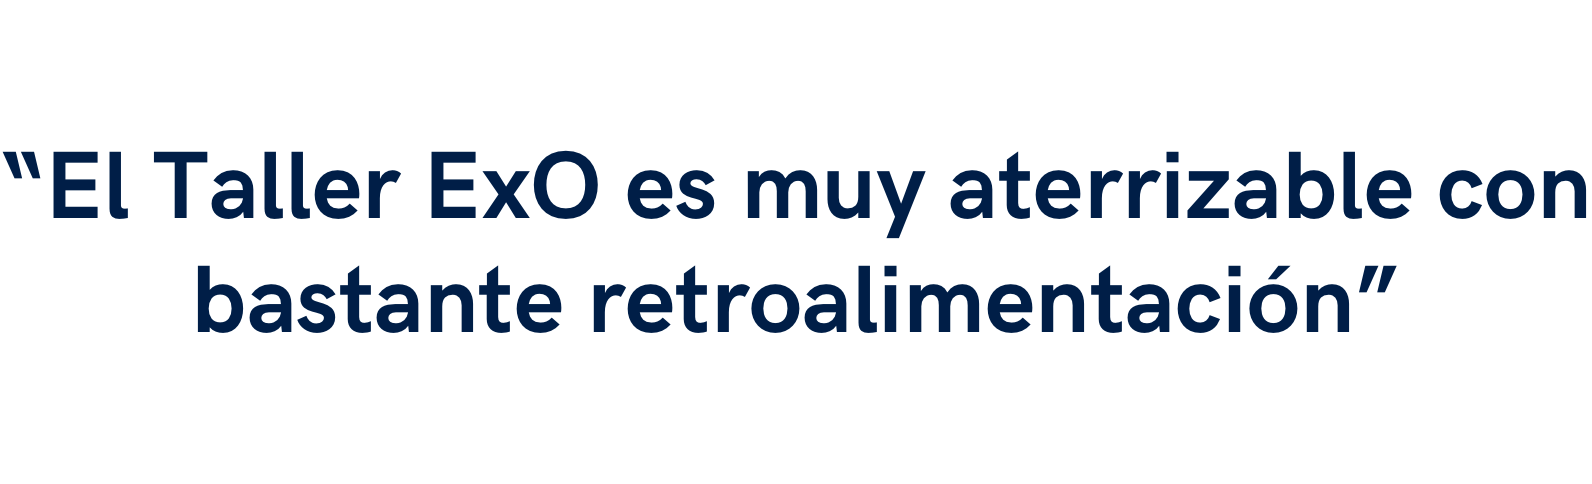
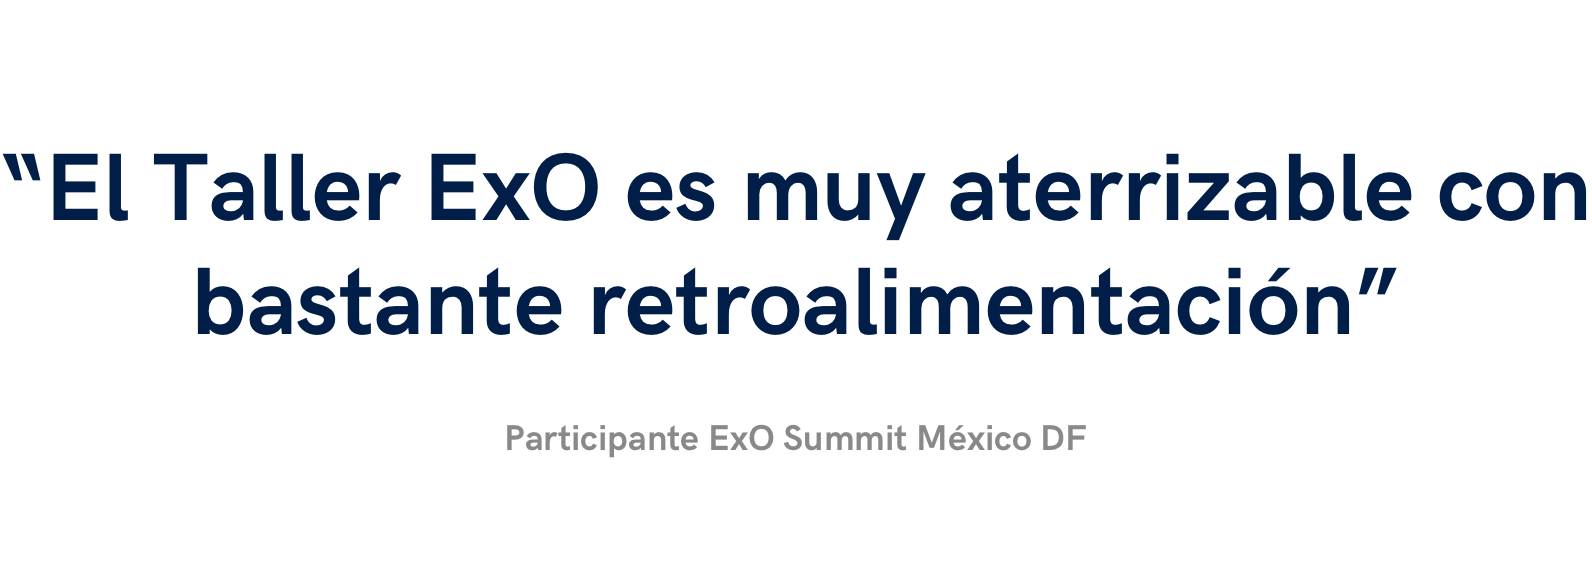
added early box and spanish quotes

Changed region(s): [[0.0, 0.2479, 1.0, 0.7128], [0.3078, 0.7128, 0.6771, 0.7748]]

diff --git a/site/layouts/partials/join.html b/site/layouts/partials/join.html
@@ -19,9 +19,9 @@
       </div>
       <div class="w-100-l mb1 flex justify-around mb3">
         {{ range .Params.promotions}}
-        <div class="white-box justify-center flex flex-column">
-          <p class="dark-blue tc fp24 b push-bottom-sm">{{.title}}</p>
-          <a href="{{.link}}" target="_blank" class="tc w-100 w-auto-ns fp16 link">{{ i18n "know-more" }}</a>
+        <div class="w-100-m early-box justify-between flex flex-column-mobile">
+          <p class="white mb0 tc fp24 b mb3-mobile">{{.title}}</p>
+          <a href="{{.link}}" target="_blank" class="flex-row-mobile flex flex-column justify-center w-100 w-auto-ns fp16 link mb0 b">{{ i18n "know-more" }}</a>
         </div>
         {{ end }}
       </div>

diff --git a/src/css/imports/_spacing.css b/src/css/imports/_spacing.css
@@ -232,6 +232,10 @@
 .mhn2 { margin-left: -var(--spacing-small); margin-right: -var(--spacing-small); }
 .mhn3 { margin-left: -var(--spacing-medium); margin-right: -var(--spacing-medium); }
 
+@media (max-width: 599px) {
+  .mb3-mobile {  margin-bottom: var(--spacing-medium); }
+}
+
 @media (--breakpoint-not-small) {
   .pa0-ns  {  padding: var(--spacing-none); }
   .pa1-ns {  padding: var(--spacing-extra-small); }

diff --git a/src/css/imports/_flexbox.css b/src/css/imports/_flexbox.css
@@ -51,6 +51,11 @@
 .order-8 { order: 8; }
 .order-last { order: 99999; }
 
+@media (max-width: 599px) {
+  .flex-column-mobile { flex-direction: column; }
+  .flex-row-mobile { flex-direction: row; }
+}
+
 @media (--breakpoint-not-small) {
   .flex-ns { display: flex; }
   .inline-flex-ns { display: inline-flex; }

diff --git a/src/css/imports/_join.css b/src/css/imports/_join.css
@@ -20,10 +20,8 @@
         width: max-content;
     }
 }
-.white-box {
+.early-box {
     padding: 24px;
-    background: white;
+    background: var(--dark-blue);
     border-radius: 8px;
-    box-shadow: 0 4px 16px 0 rgba(0, 0, 0, 0.24);
-    width: 304px;
 }
